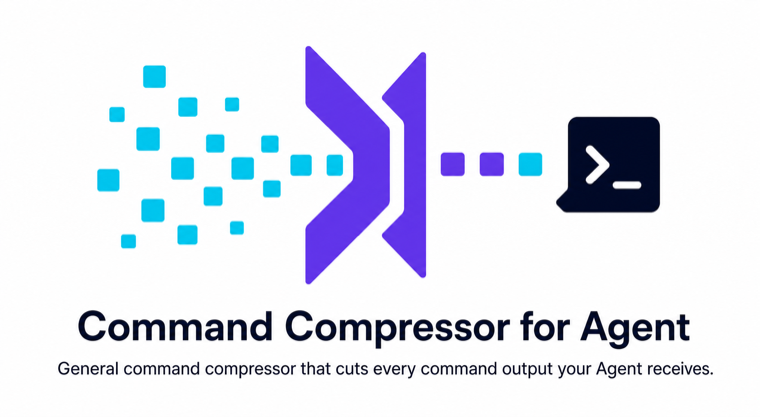
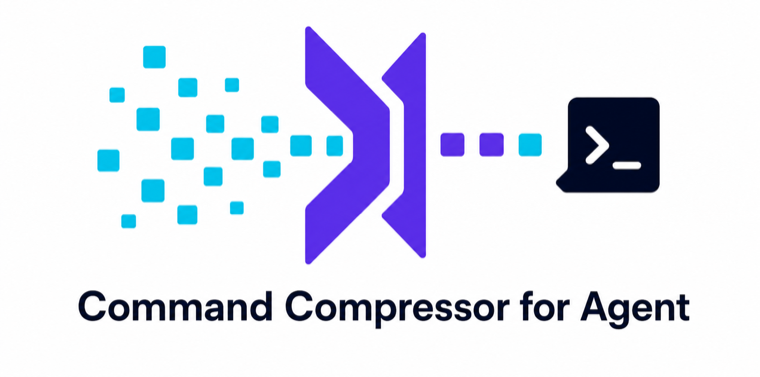
move CCA slogan below hero image

diff --git a/README.md b/README.md
@@ -2,6 +2,8 @@
 
 ![CCA compresses command output before it reaches a coding agent](docs/assets/cca-hero.png)
 
+**General command compressor that cuts every command output your Agent receives.**
+
 Command Compressor for Agent (`CCA`) saves tokens with rules instead of asking the Agent to “use fewer tokens.”
 
 CCA supports Claude Code, Codex, stable OpenCode, and Pi. It is compatible with [RTK](https://github.com/rtk-ai/rtk): RTK takes over common commands and optimizes their output, while CCA removes low-value information after a command has run.

diff --git a/docs/README.zh-CN.md b/docs/README.zh-CN.md
@@ -2,6 +2,8 @@
 
 ![CCA 在命令输出进入 coding agent 前进行压缩](assets/cca-hero.png)
 
+**General command compressor that cuts every command output your Agent receives.**
+
 Command Compressor for Agent（`CCA`）致力于节省你的 token，通过规则而不是跟 Agent 说帮我省点 token。
 
 CCA 支持 Claude Code、Codex、OpenCode 稳定版和 Pi。它兼容 [RTK](https://github.com/rtk-ai/rtk)：RTK 通过接管常见命令并优化它们的输出达到效果，CCA 则在命令执行后压缩输出的无效信息。
